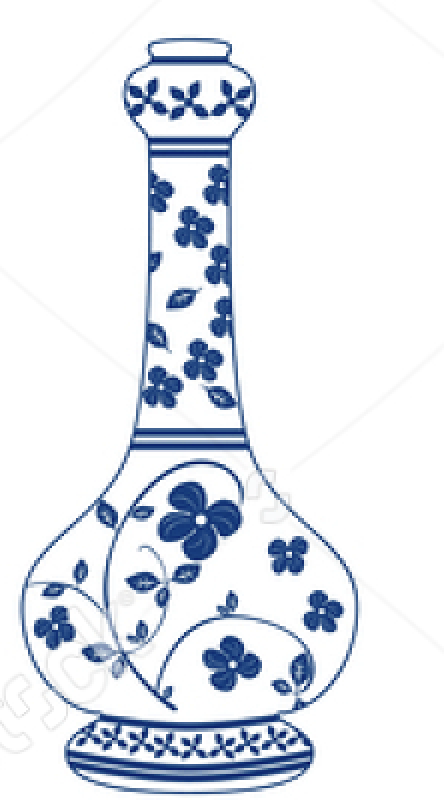
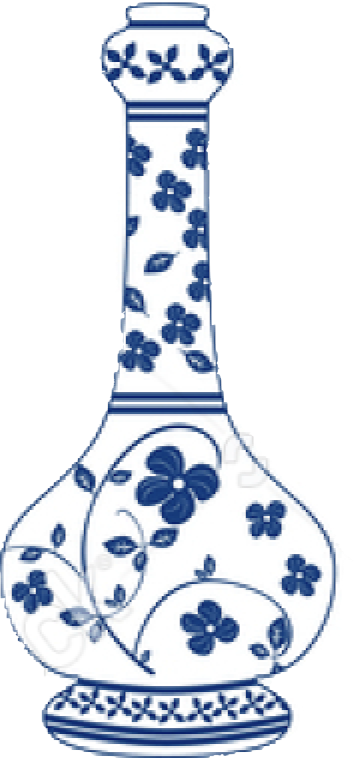
begins tackling drag and drop and crops an image

Changed region(s): [[0.0, 0.0, 0.9633, 1.0]]

diff --git a/index.html b/index.html
@@ -5,46 +5,59 @@
     <meta http-equiv="X-UA-Compatible" content="IE=edge">
     <meta name="viewport" content="width=device-width, initial-scale=1.0">
     <link rel="stylesheet" type="text/css" href="style.css" />
+    <script type="text/javascript" src="index.js"></script>
     <title>Bouquet Builder</title>
 </head>
 <header>
     <h1>Bouquet Builder</h1>
 </header>
 <body>
-    Spot for all of the action to happen
+    <section class="container">
+        <h1>Drag your items here!</h1>
+        <div class="drop-targets">
+            <div class="box">
+                <div class="item" id="item" draggable="true">        
+                </div>
+            </div>
+        </div>
+    </section>
+    <section id="vaseSidebar" style="white-space:pre;overflow:auto;" side="right" space="0" contentMin="66.666%">
+        <div class="thumbnails"></div>
+        <div class="scrollbar">
+          <div class="thumb"></div>
+        </div>
+        <div class="imageList">
+            <div class="vaseImage">
+                <img draggable="true" class="img-responsive" src="/images/vase 1.png" alt="">
+            </div>
+            <div class="vaseImage">
+                <img draggable="true" class="img-responsive" src="/images/vase 2.png" alt="">
+        </div>
+            <div class="vaseImage">
+                <img draggable="true" class="img-responsive" src="/images/vase 3.png" alt="">
+            </div>
+            <div class="vaseImage">
+                <img draggable="true" class="img-responsive" src="/images/vase 4.png" alt="">
+            </div>
+            <div class="vaseImage">
+                <img draggable="true" class="img-responsive" src="/images/vase 5.png" alt="">
+            </div>
+            <div class="vaseImage">
+                <img draggable="true" class="img-responsive" src="/images/vase 6.png" alt="">
+            </div>
+            <div class="vaseImage">
+                <img draggable="true" class="img-responsive" src="/images/vase 7.png" alt="">
+            </div>
+            <div class="vaseImage">
+                <img draggable="true" class="img-responsive" src="/images/vase 8.png" alt="">
+            </div>
+        </div>
+    </section>
+    <section id="flowerSidebar">
+    
+    </section>
+    <footer id="emailFooter">
+    
+    </footer>
 </body>
-<section id="vaseSidebar" side="right" space="0" contentMin="66.666%">
-<ul class="imageList">
-    <li class="vaseImage">
-        <img class="img-responsive" src="/images/vase 1.png" alt="">
-    </li>
-    <li class="vaseImage">
-        <img class="img-responsive" src="/images/vase 2.png" alt="">
-    </li>
-    <li class="vaseImage">
-        <img class="img-responsive" src="/images/vase 3.png" alt="">
-    </li>
-    <li class="vaseImage">
-        <img class="img-responsive" src="/images/vase 4.png" alt="">
-    </li>
-    <li class="vaseImage">
-        <img class="img-responsive" src="/images/vase 5.png" alt="">
-    </li>
-    <li class="vaseImage">
-        <img class="img-responsive" src="/images/vase 6.png" alt="">
-    </li>
-    <li class="vaseImage">
-        <img class="img-responsive" src="/images/vase 7.png" alt="">
-    </li>
-    <li class="vaseImage">
-        <img class="img-responsive" src="/images/vase 8.png" alt="">
-    </li>
-</ul>
-</section>
-<section id="flowerSidebar">
-
-</section>
-<footer id="emailFooter">
-
-</footer>
 </html>

diff --git a/style.css b/style.css
@@ -15,23 +15,28 @@ header h1{
 }
 
 #vaseSidebar{
-    width: 500px;
+    width: 400px;
     background-color: #553c9a;
     position: relative;
-    height: 100%;
-    overflow-x: hidden;
+    height: 900px;
     float: right;
-    
-}
+    display: grid;
+    grid-template-columns: 50%;
+    grid-gap: 0em;
+    padding: 0em;
+    justify-content: left;
+    min-width: 0;
+    overflow-y: scroll;
+    max-height: 100vh;
+    border-radius: 3%;
+  }
+
+
 
 .vaseImage img {
-    padding: 6px 8px 6px 6px;
-    text-decoration: none;
-    width: 66%;
-    display: grid;
-    grid-template-columns: repeat(8, 1fr);
-    grid-template-rows: repeat(8, 5vw);
-    grid-gap: 15px;
+    width: auto;
+    height: auto;
+    cursor: grab;
 }
 
 .img-responsive {
@@ -45,3 +50,11 @@ header h1{
 @media screen and (max-height: 450px) {
     #vaseSidebar {padding-top: 15px;}
   }
+
+  .container {
+    text-align: center;
+  }
+
+  .hide {
+    display: none;
+}

diff --git a/index.js b/index.js
@@ -1,0 +1,10 @@
+const vase = document.querySelector('.vaseImage');
+
+vase.addEventListener('dragstart', dragStart);
+
+function dragStart(e) {
+    console.log('drag starts...');
+    e.dataTransfer.setData('text/plain', e.target.id);
+    e.target.classList.add('hide');
+ }
+
